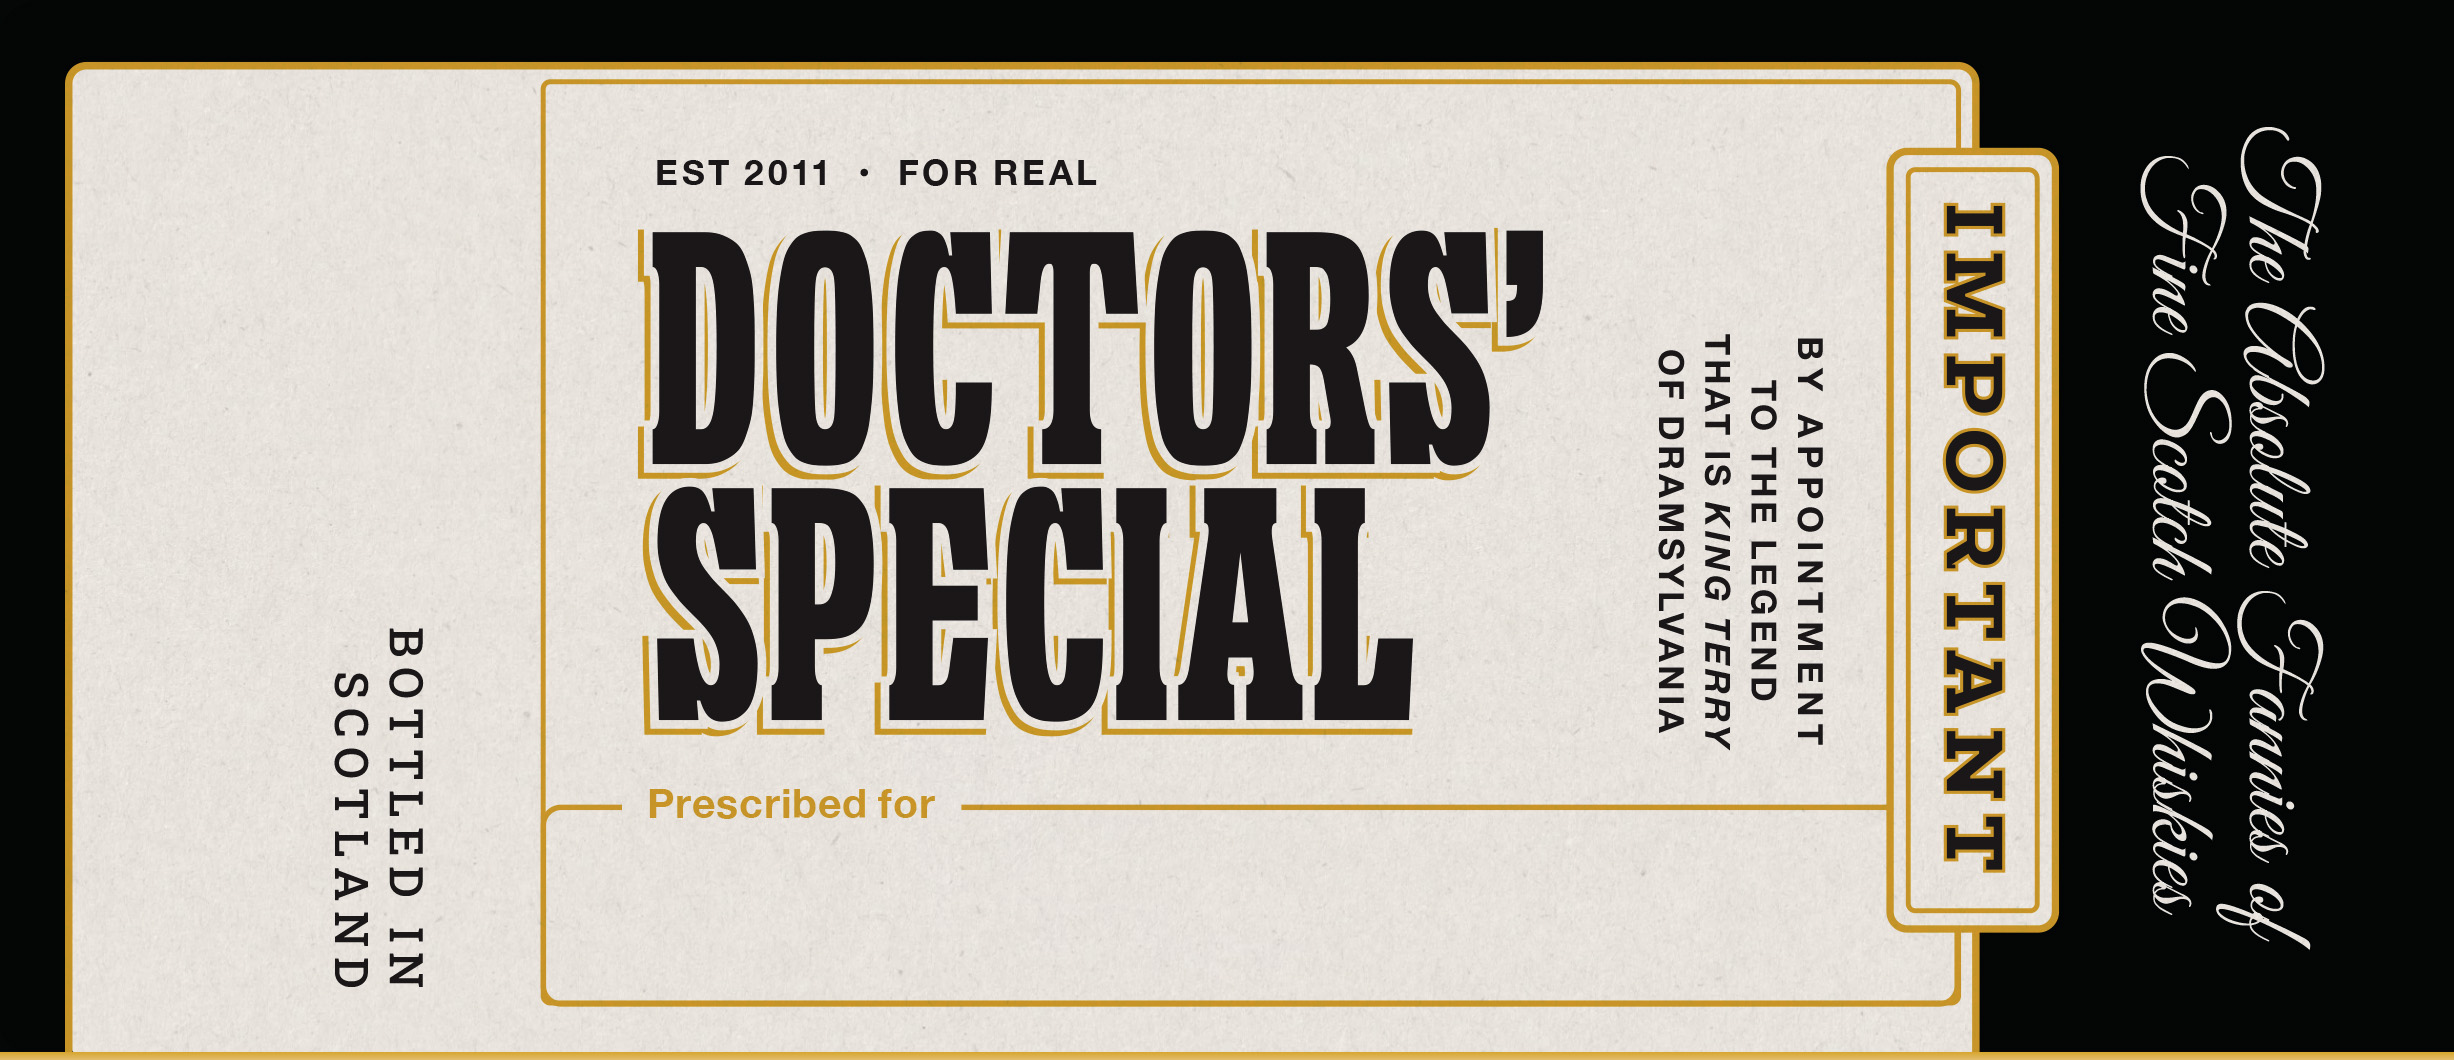
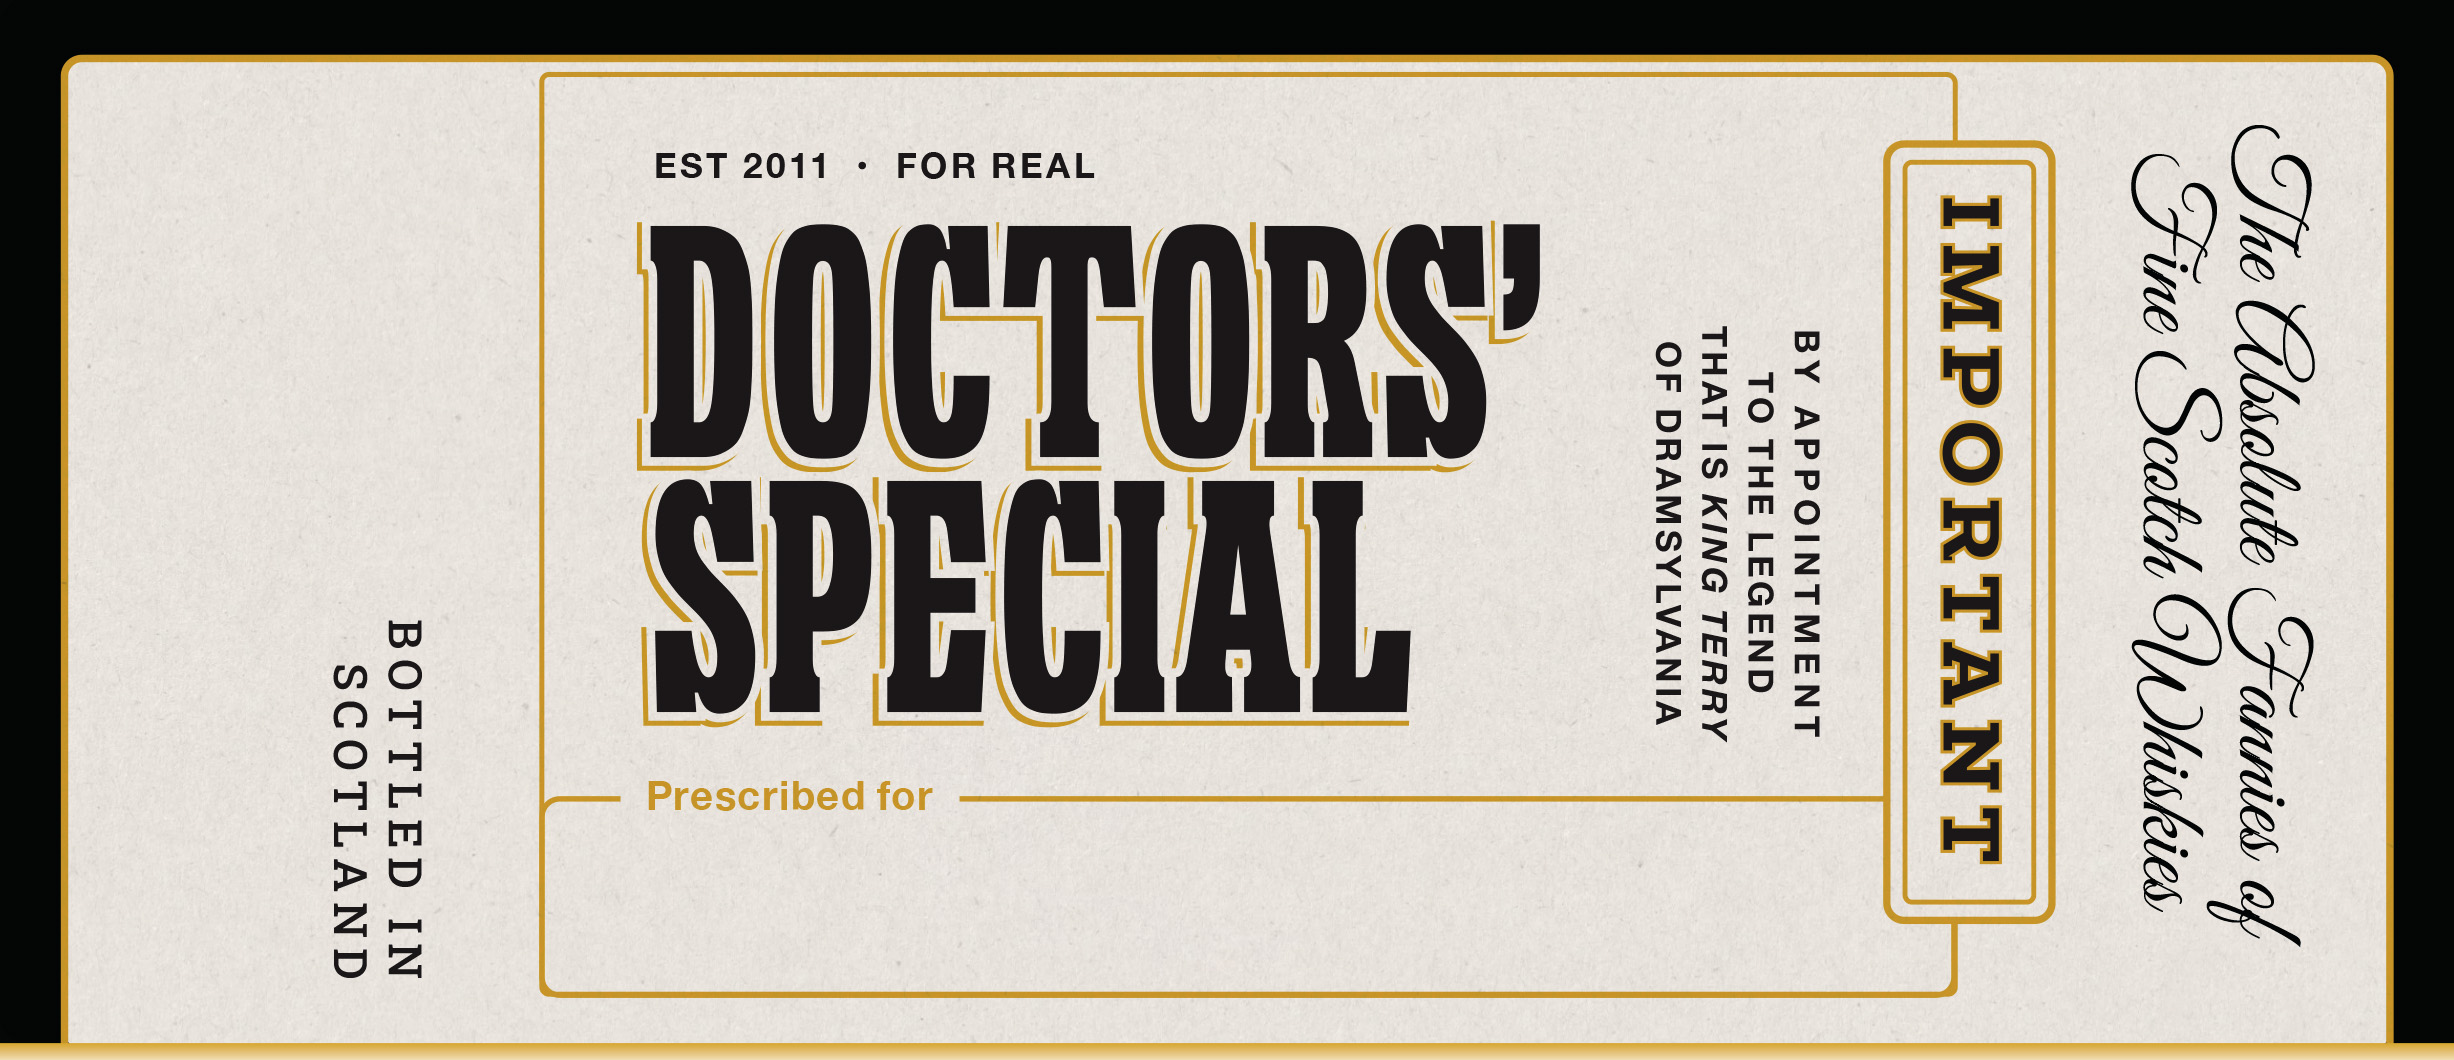
Doctors' Special: Andrew's updated artwork (cream right-hand panel); name follows the box
The new art turns the black right-hand panel cream and moves the "Prescribed for"
box 1.7px up and a touch left. Name box 181/143 -> 179/142 keeps the mock-up's
spacing from the box (measured 14 / 26px, mock 13.9 / 25.9). Product-page copy
(wb-doctorsspecial.jpg, 1300x561) regenerated from the print file; data-av 22 -> 23
so the preview's ?v= changes.

Changed region(s): [[0.0, 0.0311, 1.0, 1.0], [0.1239, 0.5915, 0.1858, 0.934], [0.2478, 0.1245, 0.3407, 0.1868]]

diff --git a/assets/wb-label.css b/assets/wb-label.css
@@ -371,7 +371,8 @@ body.wb-tpl-new .size50 .wb-stock { top: 260px; }              /* taller die: 89
 #page.doctorsspecial .wb-ds-box {
   display: flex;
   position: absolute;
-  top: 181px; left: 143px; width: 280px; height: 40px;   /* 183/140 until 18 Oct: matched to Andrew's mock-up */
+  top: 179px; left: 142px; width: 280px; height: 40px;   /* 183/140 until 18 Oct: matched to Andrew's mock-up, then -2/-1 when the
+                                                           18 Oct artwork moved its "Prescribed for" box up 1.7px */
   align-items: center;
   justify-content: flex-start;
   white-space: nowrap;

diff --git a/assets/wb-single-malt.js b/assets/wb-single-malt.js
@@ -68,7 +68,7 @@
     var isDoctors    = productSlug === 'doctorsspecial';
     var DS_FONT      = '"Playwrite AU NSW", cursive';   /* was Homemade Apple (Andrew, 18 Oct) */
     var DS_INK       = '#231f20';
-    var DS_NAME_BOX  = { top: 181, left: 143, width: 280, height: 40 };
+    var DS_NAME_BOX  = { top: 179, left: 142, width: 280, height: 40 };
     var DS_FONT_SIZE = 18;   /* fixed — no fit; length capped instead */
     var DS_FONT_EXTRA = 'font-feature-settings:&quot;calt&quot; 0;letter-spacing:-0.075em';   /* unjoined letters, as wb-label.css */
     var DS_MAX_CHARS = 24;
